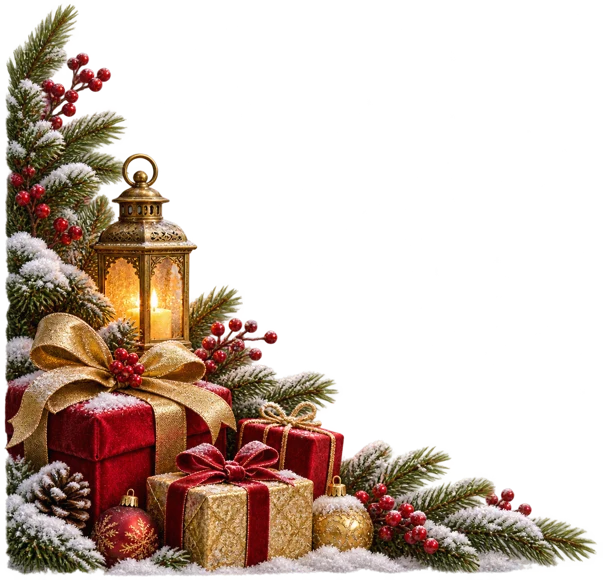
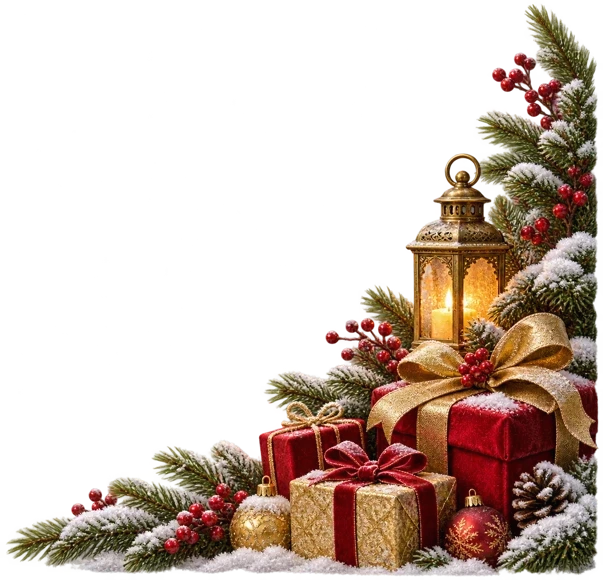
Connect Christmas chat scenery to header and snowy composer edge

diff --git a/src/styles/christmas-theme.css b/src/styles/christmas-theme.css
@@ -242,10 +242,11 @@ html[data-site-theme="christmas-2026"] .chat-detail-scene.chat-background-defaul
   --christmas-chat-wash: rgb(251 237 214 / 80%);
   --christmas-chat-paper: #faecd6;
   background:
-    url("/themes/christmas-2026/shop-window.webp") left 14% / auto clamp(104px, 41%, 295px) no-repeat,
+    url("/themes/christmas-2026/shop-window.webp") left top / auto clamp(104px, 48%, 330px) no-repeat,
     url("/themes/christmas-2026/hanging-pine.webp") right 12% / clamp(42px, 12%, 118px) auto no-repeat,
-    url("/themes/christmas-2026/reader-gifts.webp") left bottom / clamp(105px, 27%, 230px) auto no-repeat,
-    url("/themes/christmas-2026/lantern-corner.webp") right bottom / clamp(60px, 16%, 158px) auto no-repeat,
+    url("/themes/christmas-2026/composer-snow.webp") center bottom / auto 19px repeat-x,
+    url("/themes/christmas-2026/reader-gifts.webp") left bottom 3px / clamp(120px, 32%, 260px) auto no-repeat,
+    url("/themes/christmas-2026/lantern-corner.webp") right bottom 3px / clamp(76px, 19%, 178px) auto no-repeat,
     linear-gradient(var(--christmas-chat-wash), var(--christmas-chat-wash)),
     url("/themes/christmas-2026/paper-forest-watercolor.webp") left 30% / min(55%, 440px) auto no-repeat,
     url("/themes/christmas-2026/paper-forest-watercolor.webp") right 76% / min(62%, 510px) auto no-repeat,
